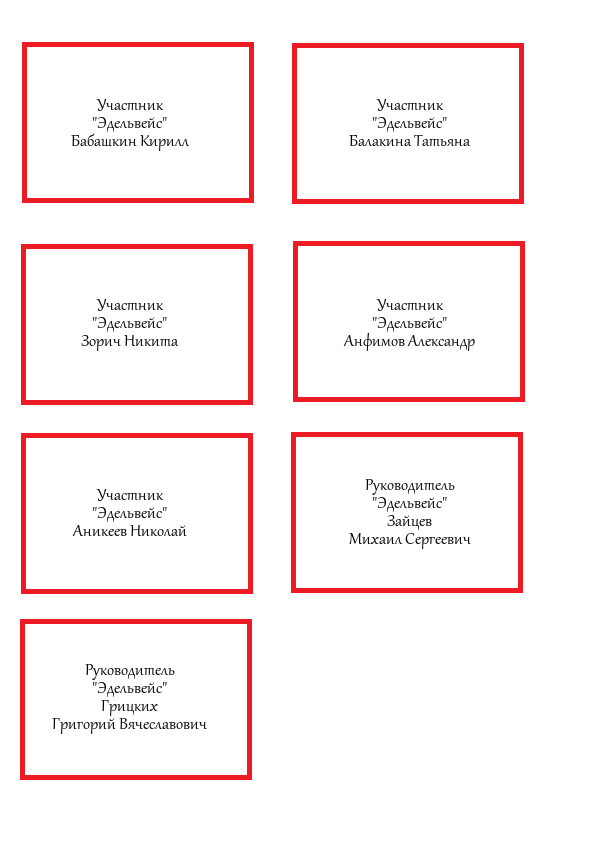
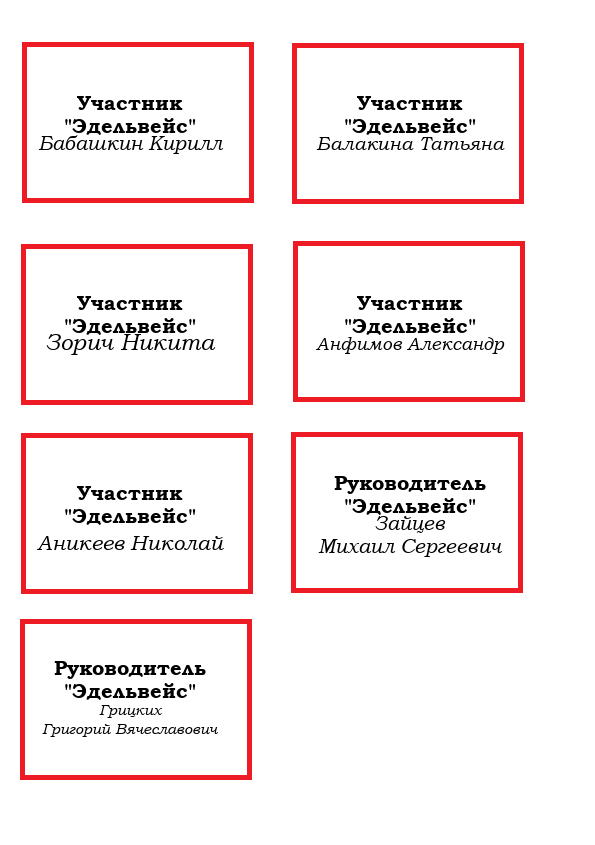
подгонка шрифта, разные типы шрифтов

diff --git a/text_from_excel.py b/text_from_excel.py
@@ -3,8 +3,15 @@ import pandas as pd
 
 mebers_com = {}
 list_com = pd.read_excel('list of comands.xlsx')
-font = ImageFont.truetype("C:\Windows\Fonts\Gabriola.ttf", 20)
-coor = [(130, 110), (410, 110), (130, 310), (410, 310), (130, 500), (410, 490), (130, 675)]
+font_text = ImageFont.truetype("C:\Windows\Fonts\BOOKOSI.TTF", 23)
+font_for_head = ImageFont.truetype("C:\Windows\Fonts\BOOKOSB.TTF", 20)
+coor_head = [(130, 110), (410, 110), (130, 310), (410, 310), (130, 500), (410, 490), (130, 675)]
+coor = [(130, 150), (410, 150), (130, 350), (410, 350), (130, 550), (410, 530), (130, 715)]
+max_size = 190
+max_size_head = 160
+def check_len (text, font):
+    text = text.split('\n')
+    return  max(list(map(lambda x: font.getlength(x), text)))
 
 for data in list_com.itertuples(index=False, name='People'):
     com = data.Команда
@@ -17,12 +24,34 @@ for data in list_com.itertuples(index=False, name='People'):
         mebers_com [com] = 0 
         image = Image.open("template.png")
         drawer = ImageDraw.Draw(image)
+
     if data.Статус != "Руководитель":
-        text = "{}\n\"{}\"\n{}".format (data.Статус, com, data.ФИО)
+        text_head = "{}\n\"{}\"".format (data.Статус, com)
+        text = "{}".format (data.ФИО)
     else:
         new_fio = data.ФИО.split()
         new_fio = new_fio[0] + '\n' + new_fio[1] + ' ' + new_fio[2]
-        text = "{}\n\"{}\"\n{}".format (data.Статус, com, new_fio)
-    drawer.multiline_text(coor[mebers_com [com]], text, font=font, align = "center", anchor="ms", fill='black')
+        text_head = "{}\n\"{}\"".format (data.Статус, com)
+        text = "{}".format (new_fio)
+
+    if check_len(text, font_text) > max_size:
+        new_font = ImageFont.truetype("C:\Windows\Fonts\BOOKOSI.TTF", 23)
+        new_font = new_font.font_variant(size = new_font.size-1)
+        while check_len(text, new_font) > max_size and new_font.size > 1 :
+            new_font= new_font.font_variant(size = new_font.size-1)
+        drawer.multiline_text(coor[mebers_com [com]], text, font = new_font, align = "center", anchor="ms", fill='black')
+    else:
+        drawer.multiline_text(coor[mebers_com [com]], text, font = font_text, align = "center", anchor="ms", fill='black')
+
+    if check_len(text_head, font_for_head) > max_size:
+        new_font = ImageFont.truetype("C:\Windows\Fonts\BOOKOSB.TTF", 20)
+        new_font = new_font.font_variant(size = new_font.size-1)
+        while check_len(text_head, new_font) > max_size_head and new_font.size > 1 :
+            new_font= new_font.font_variant(size = new_font.size-1)
+        drawer.multiline_text(coor_head[mebers_com [com]], text_head, font = new_font, align = "center", anchor="ms", fill='black')
+    else:
+        drawer.multiline_text(coor_head[mebers_com [com]], text_head, font = font_for_head, align = "center", anchor="ms", fill='black')
     image.save(name_file)
+
+
 
